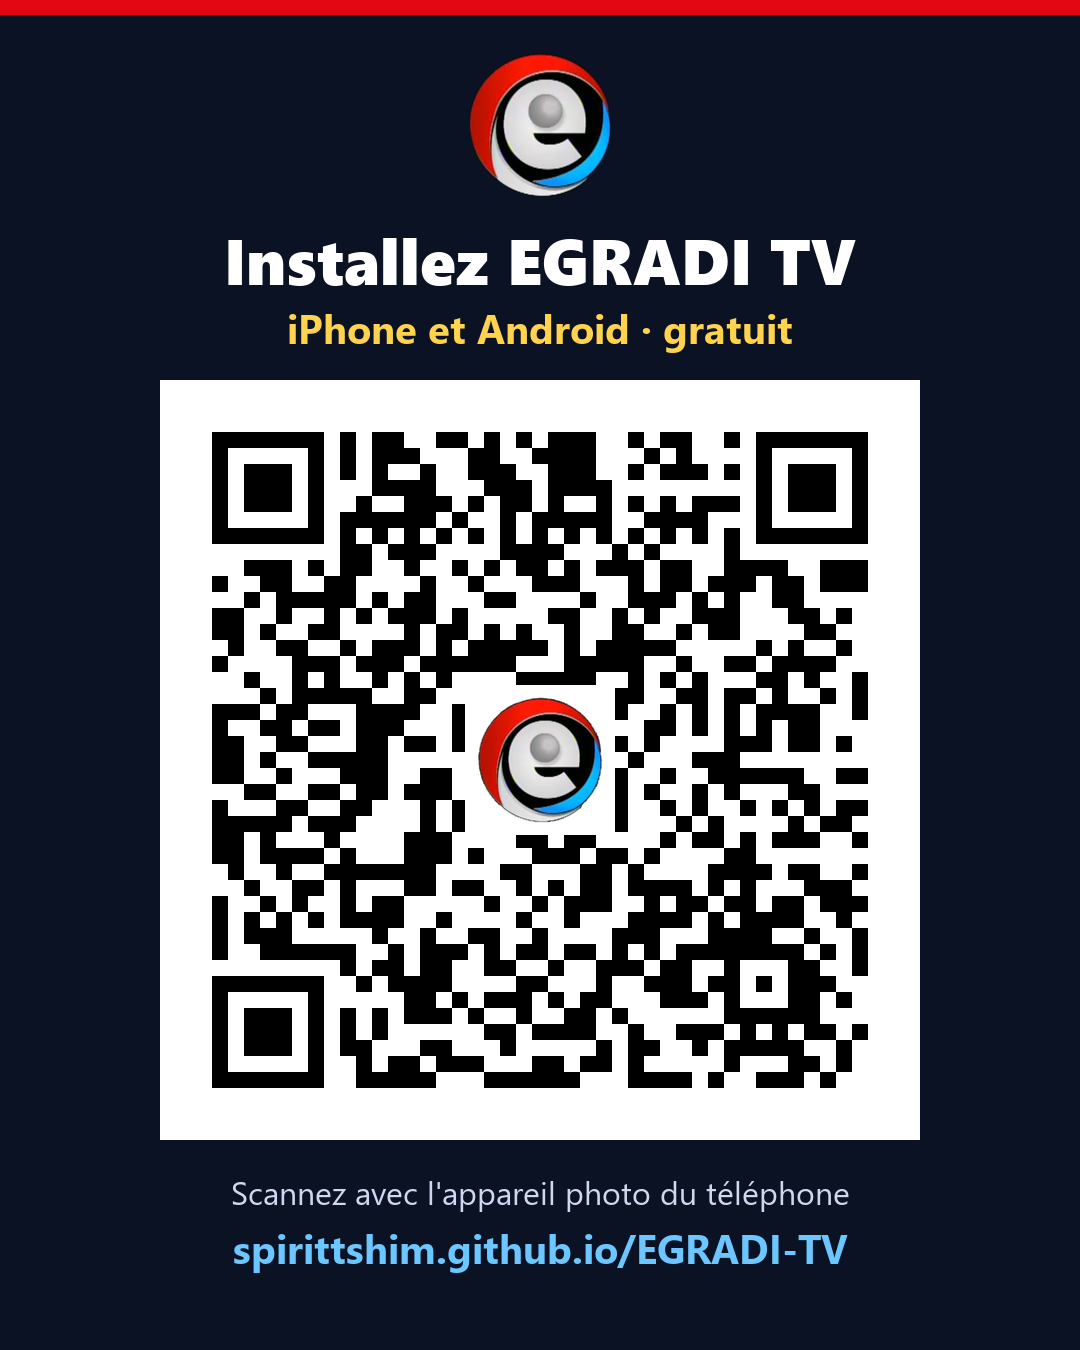
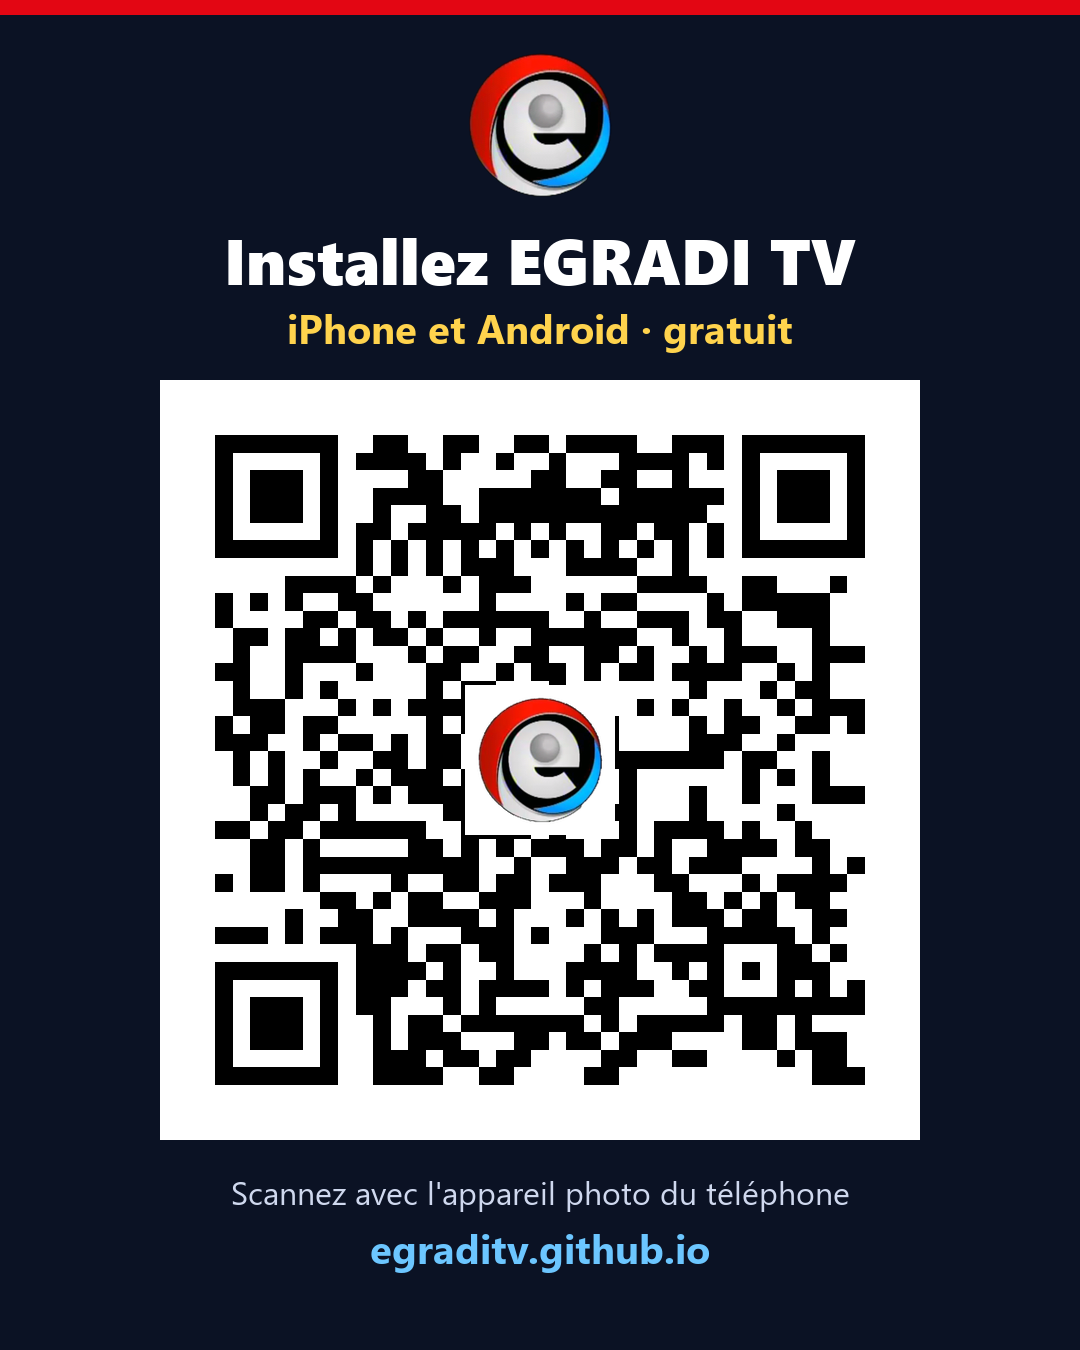
Nouvelle adresse https://egraditv.github.io/ : liens, fiche Google, plan du site, QR codes et affiche

Changed region(s): [[0.1833, 0.3111, 0.825, 0.8089], [0.2139, 0.9022, 0.7944, 0.9644]]

diff --git a/index.html b/index.html
@@ -10,15 +10,15 @@
   <meta property="og:site_name" content="EGRADI TV">
   <meta property="og:title" content="EGRADI TV — Église Grâce Divine">
   <meta property="og:description" content="Cultes en direct, prières et enseignements depuis Kinshasa.">
-  <meta property="og:image" content="https://spirittshim.github.io/EGRADI-TV/partage.jpg">
+  <meta property="og:image" content="https://egraditv.github.io/partage.jpg">
   <meta property="og:image:width" content="1200">
   <meta property="og:image:height" content="630">
   <meta property="og:image:alt" content="EGRADI TV — Église Grâce Divine, Kinshasa">
-  <meta property="og:url" content="https://spirittshim.github.io/EGRADI-TV/">
+  <meta property="og:url" content="https://egraditv.github.io/">
   <meta property="og:locale" content="fr_FR">
   <meta name="twitter:card" content="summary_large_image">
-  <link rel="canonical" href="https://spirittshim.github.io/EGRADI-TV/">
-  <script type="application/ld+json">[{"@context": "https://schema.org", "@type": "Church", "name": "Église Grâce Divine (EGRADI)", "alternateName": "EGRADI TV", "url": "https://spirittshim.github.io/EGRADI-TV/", "logo": "https://spirittshim.github.io/EGRADI-TV/logo-512.png", "image": "https://spirittshim.github.io/EGRADI-TV/partage.jpg", "description": "Cultes en direct, prières, enseignements et miracles avec l'Apôtre Augustin Mwimpe, depuis Kinshasa.", "telephone": "+243997751720", "email": "egrdimwimpe@gmail.com", "address": {"@type": "PostalAddress", "streetAddress": "Av. La Police n°3, Quartier Badara, Commune de N'sele (en face de l'Aéroport de Ndjili)", "addressLocality": "Kinshasa", "addressCountry": "CD"}, "founder": {"@type": "Person", "name": "Apôtre Augustin Mwimpe"}, "sameAs": ["https://www.youtube.com/@Ap%C3%B4treAugustinMwimpeOfficiel", "https://www.facebook.com/MWIMPE", "https://www.tiktok.com/@augustinmwimpeofficiel", "https://www.instagram.com/apotre_augustin_mwimpeofficiel/", "https://x.com/ApotreMwimpe"]}, {"@context": "https://schema.org", "@type": "WebSite", "name": "EGRADI TV", "url": "https://spirittshim.github.io/EGRADI-TV/", "inLanguage": ["fr", "ln", "en"]}]</script>
+  <link rel="canonical" href="https://egraditv.github.io/">
+  <script type="application/ld+json">[{"@context": "https://schema.org", "@type": "Church", "name": "Église Grâce Divine (EGRADI)", "alternateName": "EGRADI TV", "url": "https://egraditv.github.io/", "logo": "https://egraditv.github.io/logo-512.png", "image": "https://egraditv.github.io/partage.jpg", "description": "Cultes en direct, prières, enseignements et miracles avec l'Apôtre Augustin Mwimpe, depuis Kinshasa.", "telephone": "+243997751720", "email": "egrdimwimpe@gmail.com", "address": {"@type": "PostalAddress", "streetAddress": "Av. La Police n°3, Quartier Badara, Commune de N'sele (en face de l'Aéroport de Ndjili)", "addressLocality": "Kinshasa", "addressCountry": "CD"}, "founder": {"@type": "Person", "name": "Apôtre Augustin Mwimpe"}, "sameAs": ["https://www.youtube.com/@Ap%C3%B4treAugustinMwimpeOfficiel", "https://www.facebook.com/MWIMPE", "https://www.tiktok.com/@augustinmwimpeofficiel", "https://www.instagram.com/apotre_augustin_mwimpeofficiel/", "https://x.com/ApotreMwimpe"]}, {"@context": "https://schema.org", "@type": "WebSite", "name": "EGRADI TV", "url": "https://egraditv.github.io/", "inLanguage": ["fr", "ln", "en"]}]</script>
   <link rel="manifest" href="manifest.webmanifest">
   <link rel="icon" href="logo-badge.png" type="image/png">
   <link rel="apple-touch-icon" href="apple-touch-icon.png">

diff --git a/sw.js b/sw.js
@@ -2,7 +2,7 @@
 // Changez VERSION à chaque mise à jour des fichiers pour que les téléphones la récupèrent.
 // Notifications OneSignal (App ID dans config.js).
 try { importScripts("https://cdn.onesignal.com/sdks/web/v16/OneSignalSDK.sw.js"); } catch (e) {}
-const VERSION = "egradi-tv-25p";
+const VERSION = "egradi-tv-25q";
 const FICHIERS = ["./", "index.html", "styles.css", "app.js", "plus.js", "i18n.js", "config.js", "videos.js", "versets.js", "confidentialite.html", "logo-badge.png", "photos/banniere-apotre-900.jpg", "logo-complet.png", "logo-192.png", "logo-512.png", "manifest.webmanifest", "offrandes/logo-mpesa.png", "offrandes/logo-airtel.png", "offrandes/logo-banque.png", "offrandes/logo-paypal.svg", "offrandes/qr-tout.svg"];
 
 self.addEventListener("install", (e) => {

diff --git a/notifier_cultes.py b/notifier_cultes.py
@@ -23,7 +23,7 @@ APP_ID = os.environ.get("ONESIGNAL_APP_ID", "").strip() or (
     re.search(r'onesignalAppId:\s*"([^"]*)"', pathlib.Path(__file__).with_name("config.js").read_text(encoding="utf-8")) or [None, ""]
 )[1]  # sinon, l'App ID écrit dans config.js
 CLE = re.sub(r"^(Key|Basic)\s+", "", os.environ.get("ONESIGNAL_API_KEY", "").strip().strip('"').strip("'")).strip()
-SITE = "https://spirittshim.github.io/EGRADI-TV/"
+SITE = "https://egraditv.github.io/"
 KINSHASA = dt.timezone(dt.timedelta(hours=1))  # UTC+1, pas d'heure d'été
 CLE_REFUSEE = False
 JOURS = ["Lundi", "Mardi", "Mercredi", "Jeudi", "Vendredi", "Samedi", "Dimanche"]  # ordre de weekday()
